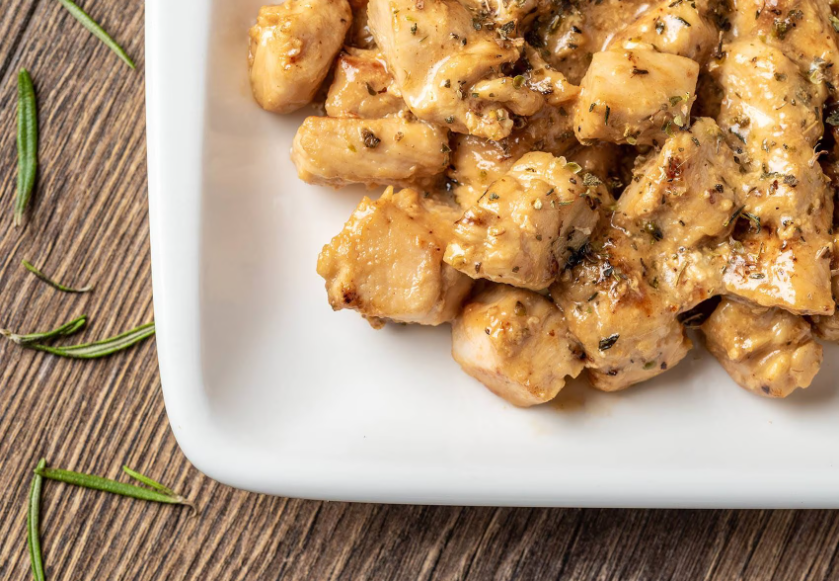
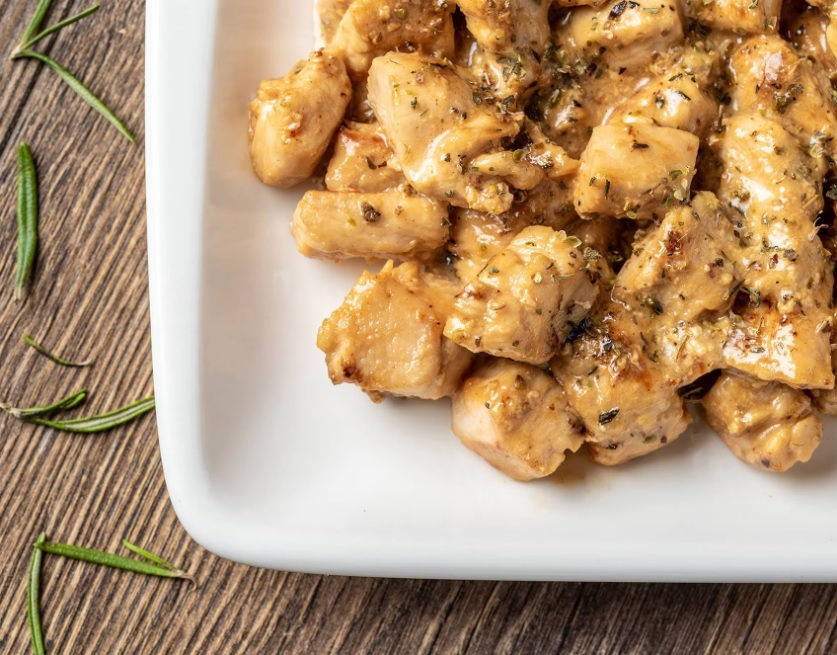
.

diff --git a/recipes.html b/recipes.html
@@ -81,7 +81,7 @@
             </div>
 
             <div class="image">
-                <a href="cuadritos-de-pollo.html"><img src="images/cuadritos-de-pollo.png" class="img2"
+                <a href="cuadritos-de-pollo.html"><img src="images/cuadritos-de-pollo.jpg" class="img2"
                         alt="cuadritos de pollo"></a>
                 <p class="text"><b>Cuadritos de pollo</b></p>
             </div>

diff --git a/cuadritos-de-pollo.html b/cuadritos-de-pollo.html
@@ -51,7 +51,7 @@
             <div>
 
                 <div class="image">
-                    <img class="receta-principal" src="images/cuadritos-de-pollo.png" alt="cuadritos de pollo">
+                    <img class="receta-principal" src="images/cuadritos-de-pollo.jpg" alt="cuadritos de pollo">
                     <p class="title"><b>Cuadritos de pollo</b></p>
                 </div>
 
